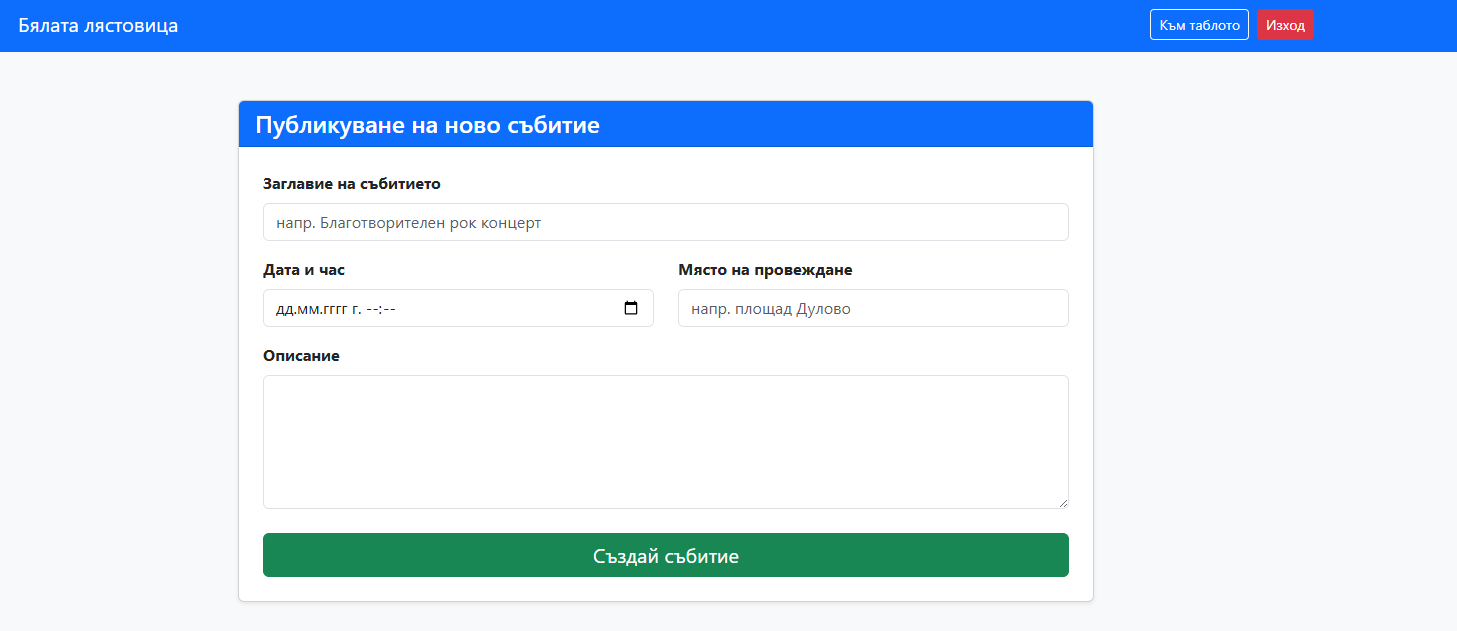
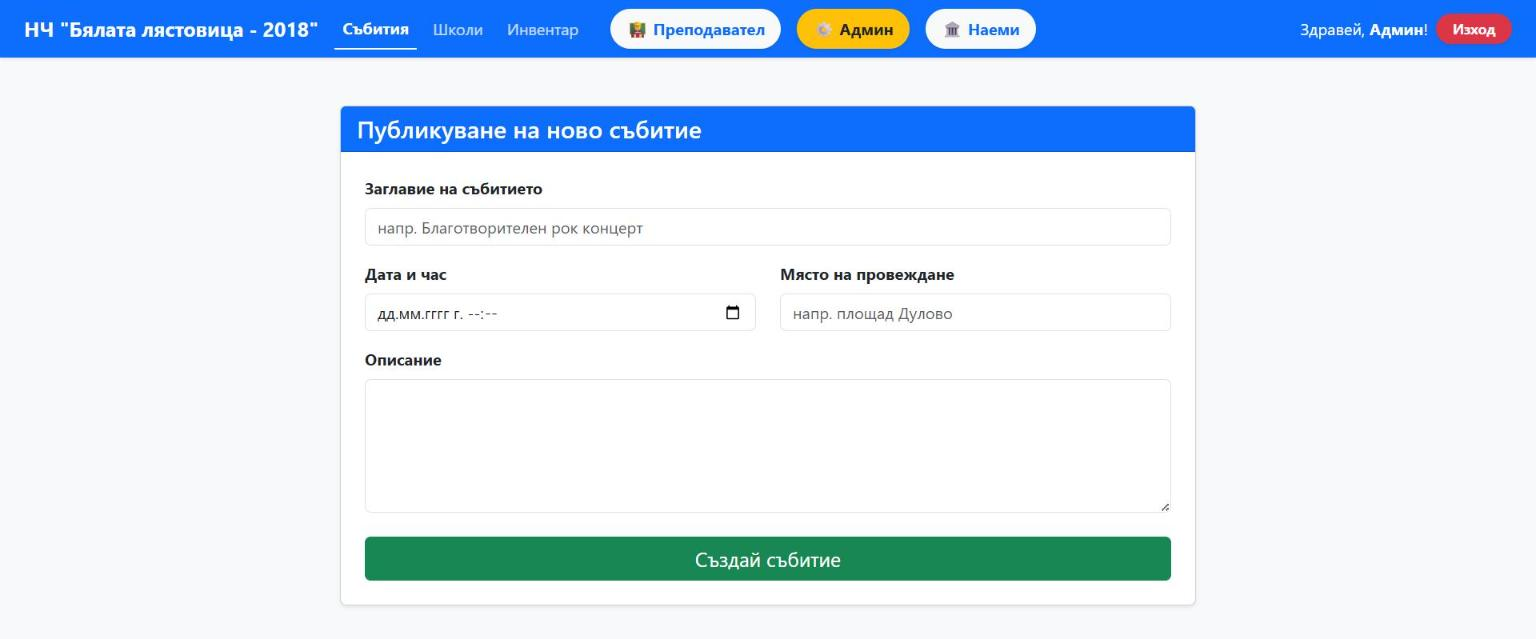
docs: refresh README screenshots with seeded demo data
Recaptures all existing screenshots against the newly seeded database
(realistic users, courses, attendance/fees, events, inventory) and adds
new ones for the user profile, admin user management, and the
rental-service hall/equipment rental flow via Feign, which weren't
pictured before.

diff --git a/README.md b/README.md
@@ -222,3 +222,11 @@ This project is a solid foundation that I plan to expand. Upcoming features incl
 ![Schedule Employee](images/schedule-employee.png)
 
 ![User Dashboard](images/user-dashboard.png)
+
+![User Profile](images/profile.png)
+
+![Admin User Management](images/admin-users.png)
+
+![Hall & Equipment Rentals (rental-service via Feign)](images/rentals.png)
+
+![Hall & Equipment Rentals - request list](images/rentals-2.png)
